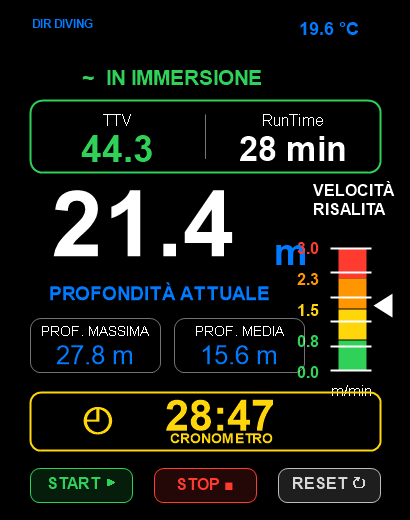
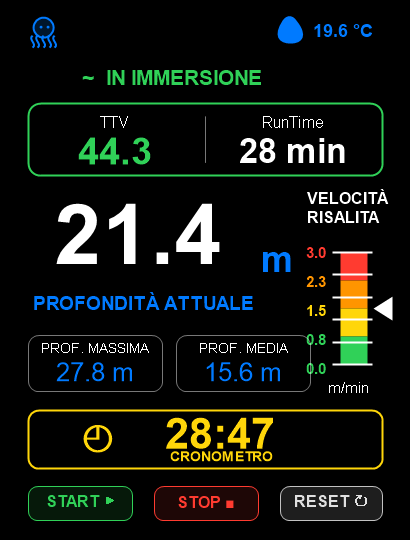
Document premium live mockup alignment

diff --git a/Docs/EXPERIMENTAL_FEATURES.md b/Docs/EXPERIMENTAL_FEATURES.md
@@ -24,6 +24,14 @@ The experimental branch uses the same premium visual language as the supplied Ap
 - Blue labels for technical context.
 - Green, yellow, orange, and red used as functional state colors.
 - Custom bordered command controls instead of generic watchOS bordered buttons.
+- A drawn octopus mark at the live screen top left, matching the supplied reference without depending on emoji glyphs.
+- Explicit live-screen layout regions for the large depth value and the right-side ascent gauge, preventing text and gauge overlap.
+
+The live dive screen reference preview generated from the current code is:
+
+```text
+Docs/LiveDiveImmersionPremiumPreview.png
+```
 
 The shared styling helpers live in:
 

diff --git a/README.md b/README.md
@@ -41,11 +41,13 @@ Future screens and feature work should preserve this look and feel:
 - Yellow stopwatch panel, orange/yellow ascent caution zones, and red stop/danger states
 - Thin rounded borders around operational panels and action controls
 - Compact vertical spacing matching the supplied reference screenshot
+- SwiftUI-drawn octopus logo at the top left of the live screen, matching the supplied reference instead of relying on emoji rendering
+- Dedicated depth and ascent-gauge columns on the live screen so values, labels, and the colored ascent bar never overlap
 - No generic dashboard cards, decorative gradients, or marketing-style layouts inside the watch UI
 
 This premium visual system is now applied across the watch UI, not only the live dive screen:
 
-- `DiveLiveView`: primary dive computer screen with depth, TTV, RunTime, ascent gauge, stopwatch, and controls
+- `DiveLiveView`: primary dive computer screen with octopus logo, depth, TTV, RunTime, separated ascent gauge, stopwatch, and controls
 - `CompassView`: black full-screen compass surface with large heading, bearing panel, and bordered controls
 - `AscentRateSettingsView`: custom ascent-limit controls with color-coded depth bands
 - `BuddyAssistView`: pre-dive pairing, Buddy Link, proximity, message, and compass panels using the same black technical visual language
@@ -67,7 +69,7 @@ Docs/ReferenceLookAndFeel.jpg
 The current code preview is stored at:
 
 ```text
-Docs/CurrentCodeLiveViewPreview.png
+Docs/LiveDiveImmersionPremiumPreview.png
 ```
 
 ## Project Structure